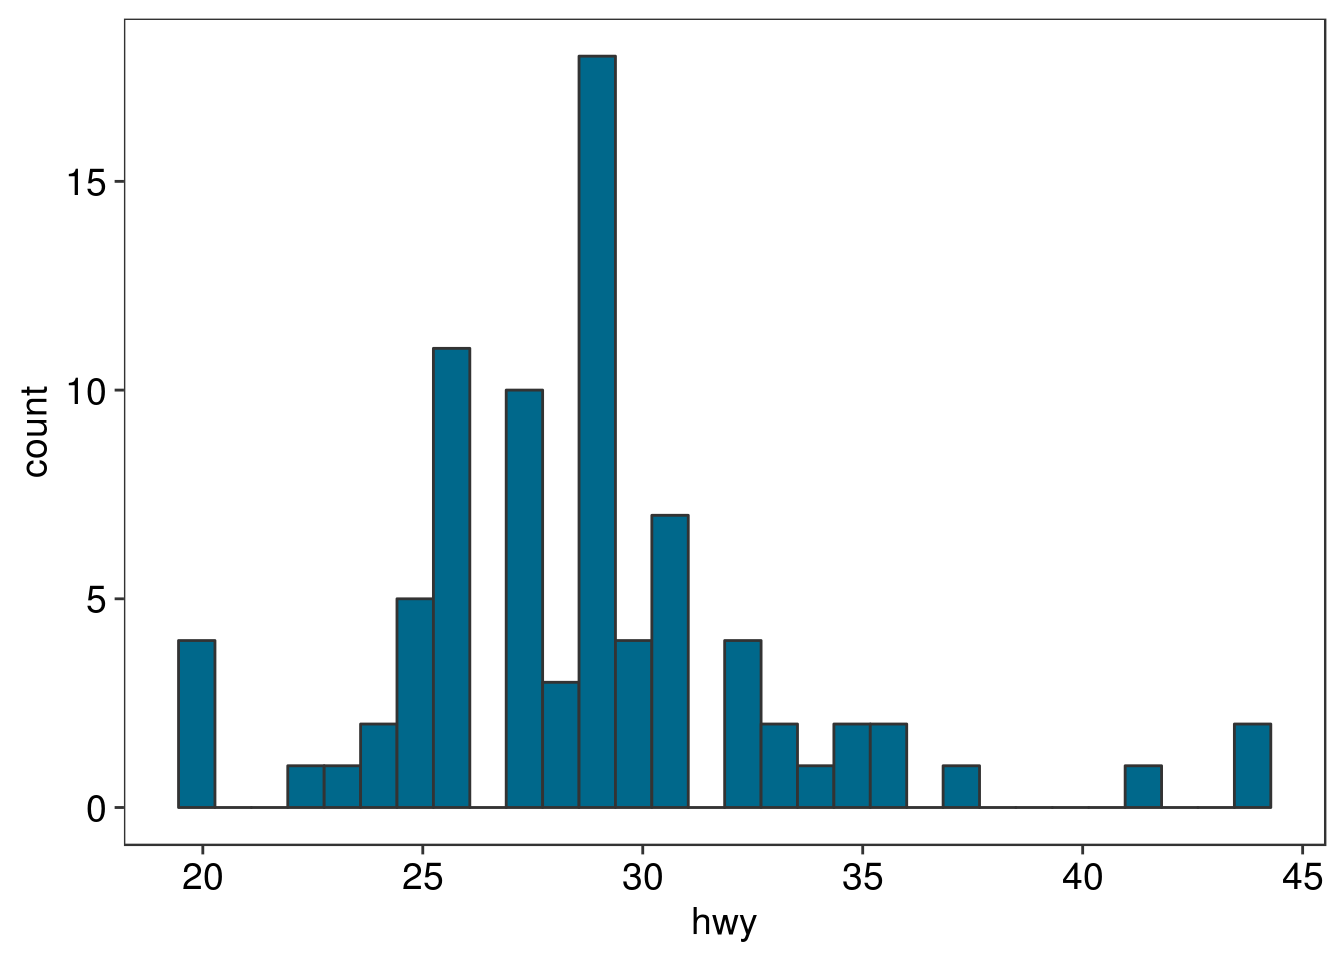
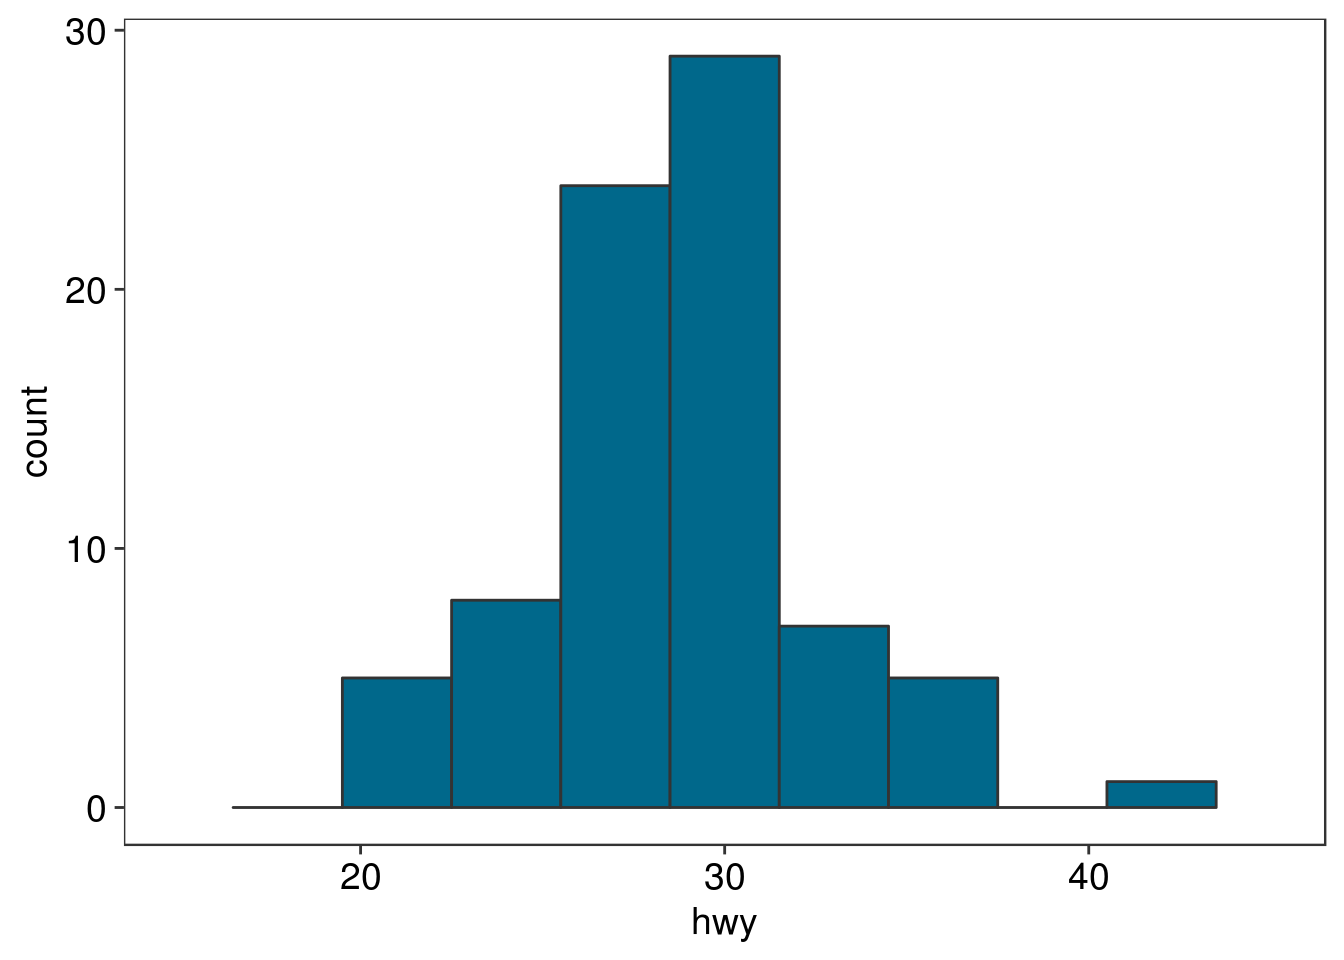
more additions to inference blog

diff --git a/content/post/statistical-inference-using-R.html b/content/post/statistical-inference-using-R.html
@@ -14,15 +14,22 @@ output:
 <div id="TOC">
 <ul>
 <li><a href="#everything-varies">Everything Varies</a></li>
-<li><a href="#mean---one-measure-of-centeral-tendency">Mean - One Measure of Centeral Tendency</a></li>
+<li><a href="#mean---one-measure-of-central-tendency">Mean - One Measure of Central Tendency</a></li>
+<li><a href="#sample-vs-population">Sample vs Population</a></li>
+<li><a href="#estimating-a-population-parameter-from-a-sample-quantity">Estimating a Population Parameter from a Sample Quantity</a></li>
+<li><a href="#variance---a-measure-of-spread">Variance - A Measure of Spread</a></li>
+<li><a href="#what-is-the-variance-in-estimate-of-mean">What is the Variance in Estimate of Mean</a></li>
+<li><a href="#central-limit-theorem">Central Limit Theorem</a></li>
+<li><a href="#key-facts-about-normal-distribution">Key Facts about Normal Distribution</a></li>
+<li><a href="#confidence-intervals-for-the-estimate-of-mean">Confidence Intervals for the Estimate of Mean</a></li>
 </ul>
 </div>
 
-<p>Imagine you were in the market for a new car. You care about running cost of the car and thus one of the buying criteria you have in mind is better fuel economy. One of your friends suggests to buy a 4-cylinder car instead of 6or 8 cylinders since larger engine size ususally translates to worse fuel economy. You are a data scientist so you just don’t take his word but want to look at some concrete data before you narrow down your search to 4-cylinder vehicles. You find this <code>mpg</code> dataset in one of the R packages, <code>ggplot2</code> and start to look at it to answer your question:</p>
+<p>Imagine you were in the market for a new car. You care about running cost of the car and thus one of the buying criteria you have in mind is better fuel economy. One of your friend suggests to buy a 4-cylinder car instead of 6 or 8 cylinders since larger engine size ususally translates to worse fuel economy. You are a data scientist so you just don’t take his word but want to look at some concrete data before you narrow down your search to 4-cylinder vehicles. You find this <code>mpg</code> dataset in one of the R packages, <code>ggplot2</code> and start to look at it to answer your question:</p>
 <blockquote>
 <p>Do 4-cylinder cars have better fuel economy than 6-cylinder cars?</p>
 </blockquote>
-<p>This is a kind of question that statistical inference will help us answer. In this post, we will learn the fundamental concepts related to inference. As usual, we will keep the focus tight on the minimum set of tools needed to start applying the concepts to data at hand. We will add more tools as we start to play with different types of data.</p>
+<p>This is a type of question that statistical inference will help us answer. In this post, we will learn the fundamental concepts related to inference. As usual, we will keep the focus tight on the minimum set of tools needed to start applying the concepts to data at hand. We will add more tools as we start to play with different types of data.</p>
 <div id="everything-varies" class="section level3">
 <h3>Everything Varies</h3>
 <p>Variation is inherent to all phenomenon and processes. Otherwise our job is done. Our objective is to understand the variation in data so we can make an informed decision. So we want to ‘quantify’ the variation in our data. Just looking at the raw data is not going to cut it. Let’s try:</p>
@@ -63,28 +70,104 @@ hwy_4
 #&gt;  9    25
 #&gt; 10    26
 #&gt; # ... with 69 more rows</code></pre>
-<p>It is not a bad idea to look at the raw data but it is difficult to conclude anything. It appears that 4-cylinder vehicles have slightly better fuel economy but there is some overlap too. Moreover, our brain will start to complain if we stare at 70 data points for each set for too long. Sometimes we have to work with many more observations. One tool to ease out that pain is plots. Let’s look at the histogram of each set:</p>
+<p>It is not a bad idea to look at the raw data but it is difficult to conclude anything. Surprisingly, the fuel economy numbers are rounded to 2 significant figures (and thus of type <em>integer</em>). Generally, mpg numbers are provided with 3 decimal places. It appears that 4-cylinder vehicles have slightly better fuel economy but there is some overlap too. Moreover, our brain will start to complain if we stare at 80 data points for each set for too long. And sometimes we may have to work with many more observations. One tool to ease out that pain is plots. Let’s look at the histogram of each set:</p>
 <pre class="r white"><code>library(themeSimple)
 ggplot(hwy_4, aes(hwy)) +
-    histogram() +
+    histogram(binwidth = 3) + 
+    xlim(15, 45) +
     theme_simple()</code></pre>
 <p><img src="/post/statistical-inference-using-R_files/figure-html/unnamed-chunk-2-1.png" width="672" style="display: block; margin: auto;" /></p>
-<pre class="r white"><code>ggplot(hwy_6, aes(hwy)) +
-    histogram() +
+<pre class="r white"><code>
+ggplot(hwy_6, aes(hwy)) +
+    histogram(binwidth = 3) +
+    xlim(15, 45) +
     theme_simple()</code></pre>
-<p><img src="/post/statistical-inference-using-R_files/figure-html/unnamed-chunk-2-2.png" width="672" style="display: block; margin: auto;" /></p>
+<p><img src="/post/statistical-inference-using-R_files/figure-html/unnamed-chunk-2-2.png" width="672" style="display: block; margin: auto;" /> I kept the x-axis scale same in both plots so we can compare the two easily. It is apparent that the mean of 4-cylinder vehicles is centered aroung 30 mpg (miles per gallon) while it is around 25 mpg for 6-cylinder vehicles. So should you conclude that 4-cylinder cars are better? Well, let’s wait until we get some quantifiable differences.</p>
 </div>
-<div id="mean---one-measure-of-centeral-tendency" class="section level3">
-<h3>Mean - One Measure of Centeral Tendency</h3>
-<p>A better approach is to look at the mean:</p>
+<div id="mean---one-measure-of-central-tendency" class="section level3">
+<h3>Mean - One Measure of Central Tendency</h3>
+<p>To quantify the difference, one measure we can consider is <em>mean</em>, which is a measure of central tendency of the data:</p>
 <pre class="r white"><code>mpg %&gt;% 
-    group_by(cyl) %&gt;% 
+    group_by(cyl) %&gt;%
+    filter(cyl == 4 | cyl == 6) %&gt;%
     summarize(mean_hwy = mean(hwy))
-#&gt; # A tibble: 4 x 2
+#&gt; # A tibble: 2 x 2
 #&gt;     cyl mean_hwy
 #&gt;   &lt;int&gt;    &lt;dbl&gt;
 #&gt; 1     4     28.8
-#&gt; 2     5     28.8
-#&gt; 3     6     22.8
-#&gt; 4     8     17.6</code></pre>
+#&gt; 2     6     22.8</code></pre>
+<p>So the mean fuel economy of 4-cylinder cars is greater than 6-cylinder cars by 6 mpg! That’s quite a bit. And now we have quantified the difference. Can we conclude now that 4-cylinder cars are better than 6-cylinders? Well not so fast!</p>
+</div>
+<div id="sample-vs-population" class="section level3">
+<h3>Sample vs Population</h3>
+<p>One thing is clear that your friend is not going to pick up one of the cars used to generate this data. For one, the latest model (2008) in the data set is 10 years old. The data we have with us is called <em>sample</em> and the mean we have calculated is called <em>sample mean</em>. This sample comes from <em>population</em> that in this case consists of all the 4 and 6 cylinder cars manufactured in US from year 1999 to 2008. What we really want to know is <em>population mean</em>. But there is no way to exactly know the population mean (unless you are ready to measure mpg for all the cars, which is a costly proposition!). The only option we have is to <em>estimate</em> population mean from sample mean.</p>
+</div>
+<div id="estimating-a-population-parameter-from-a-sample-quantity" class="section level3">
+<h3>Estimating a Population Parameter from a Sample Quantity</h3>
+<p><strong>How do we estimate population mean from sample mean?</strong></p>
+<p>The answer is quite simple here.</p>
+<blockquote>
+<p>Sample mean is an <em>unbiased estimator</em> of population mean.</p>
+</blockquote>
+<p>Sample mean is an <em>unbiased</em> estimator of population mean so we don’t have to worry too much about the estimate here. What we need to answer is <em>how confident</em> are we in our estimate? It is likely that if we collect another sample, the mean of that sample is not going to be exactly same as the first. This is because since the individual observations are <em>random numbers</em>, anything that we calculate from those will also be a random number. To understand the variability in mean, we need to know a bit about <em>variance</em>.</p>
+</div>
+<div id="variance---a-measure-of-spread" class="section level3">
+<h3>Variance - A Measure of Spread</h3>
+<p>While mean gives you central tendency of a population, <em>variance</em> represents the spread or distribution of observations around the mean. We typically think of variance in terms of <em>standard deviation</em> which is just the square root of variance. This is because the units of standard deviation matches with the data we are analyzing. So in short, a data with standard deviation of 5 will be more spread out compared to a data with standard deviation of 1. Let’s look at the histogram of these two sets:</p>
+<pre class="r white"><code>low_var &lt;- rnorm(1000)
+high_var &lt;- rnorm(1000, mean = 0, sd = 5)
+data &lt;- tibble(id = rep(c(&quot;low&quot;, &quot;high&quot;), each = 1000), 
+               obs = c(low_var, high_var))
+ggplot(data, aes(x = obs)) +
+    histogram(data = filter(data, id == &quot;high&quot;), 
+              fill = &#39;darkorange&#39;, 
+              alpha = 0.8) +
+    histogram(data = filter(data, id == &quot;low&quot;), 
+              alpha = 0.8) +
+    theme_simple()</code></pre>
+<p><img src="/post/statistical-inference-using-R_files/figure-html/unnamed-chunk-4-1.png" width="672" style="display: block; margin: auto;" /></p>
+</div>
+<div id="what-is-the-variance-in-estimate-of-mean" class="section level3">
+<h3>What is the Variance in Estimate of Mean</h3>
+<p>Now that we know what variance is, we need to find what is the variance in our estimate of mean. It turns out that the variance in the estimate of mean is simply the variance of the sample divided by the number of observations in the sample. It follows then that the standard deviation of estimate of our mean (also known as the <em>standard error of mean</em>) is the standard deviation of the sample divided by the square root of the number of observations. Thus, as our sample size increases, the standard error of mean decreases increasing our confidence in the estimate of mean.</p>
+<blockquote>
+<p><em>Standard error of mean is equal to standard deviation of the sample divided by the square root of the number of observations</em></p>
+</blockquote>
+<p>Let’s calculate <em>SE of mean</em> of our two samples:</p>
+<pre class="r white"><code>semean_hwy_4 &lt;- signif(sd(pull(hwy_4, hwy)) / sqrt(length(pull(hwy_4, hwy))), 3)
+semean_hwy_4
+#&gt; [1] 0.502</code></pre>
+<pre class="r white"><code>semean_hwy_6 &lt;- signif(sd(pull(hwy_6, hwy)) / sqrt(length(pull(hwy_6, hwy))), 3)
+semean_hwy_6
+#&gt; [1] 0.415</code></pre>
+<p>This is interesting. From a single sample of data, we know the estimate of population mean and the variance in this estimate. Is it possible to know more about what this population of sample means look like. In other words, if I could not take just one sample, but 10, 100 or thousands of samples, calculate mean of each sample and plot a histogram, what would the distribution of those means look like? The answer is the mighty <em>Central Limit Theorem</em>.</p>
+</div>
+<div id="central-limit-theorem" class="section level3">
+<h3>Central Limit Theorem</h3>
+<p>Central Limit Theorem (CLT) says that regrdless of what the distribution of individual observations of a certain population looks like, the distribution of sample means gets closer and closer to <em>normal distribution</em> as the number of observations increase.</p>
+<blockquote>
+<p><em>Distribution of averages of a random variable samples gets closer and closer to normal distribution as the sample size increases.</em></p>
+</blockquote>
+</div>
+<div id="key-facts-about-normal-distribution" class="section level3">
+<h3>Key Facts about Normal Distribution</h3>
+<p>Now that we know that the distribution of averages follows normal distribution, it will help to know a little bit about this normal distribution. Normal distribution has a <em>bell shape</em> and is also referred to as <em>Gaussian Distribution</em>. Due to the bell shape, more observations are concentrated at the center (mean) and the density decreases as we move away from the center in either direction.</p>
+<ul>
+<li>A normal distrubution with a mean of 0 and standard deviation of 1 is known as <em>standard normal distribution</em>.</li>
+<li>68%, 95% and 99% of the normal density lies within approximately 1, 2 and 3 standard deviations from the mean.</li>
+<li>-1.96, -1.645, 1.645, 1.96 are the 2.5th, 5th, 95th and 97.5th percentiles of the standard normal distribution.</li>
+</ul>
+<p>These facts allow us to build confidence intervals for any estimate that follows a normal distribution.</p>
+</div>
+<div id="confidence-intervals-for-the-estimate-of-mean" class="section level3">
+<h3>Confidence Intervals for the Estimate of Mean</h3>
+<p>Now we have the knowledge to create confidence intervals for our estimate of mean. For example, since the mean follow normal distribution (per CLT), 95% of the means will lie within <em>+/- 2 x SE</em>:</p>
+<pre class="r white"><code>CI_4 &lt;- mean(pull(hwy_4)) + c(-2, 2) * semean_hwy_4
+signif(CI_4, 3)
+#&gt; [1] 27.8 29.8</code></pre>
+<pre class="r white"><code>CI_6 &lt;- mean(pull(hwy_6)) + c(-2, 2) * semean_hwy_6
+signif(CI_6, 3)
+#&gt; [1] 22.0 23.7</code></pre>
+<p><strong>What does these confidence intervals mean?</strong></p>
+<p>One interpretation of confidence interval is that there is 95% chance that the population mean will lie within 27.8 and 29.8 mpg for 4-cylinder cars. In other words, these confidence intervals mean that if we take 100 4-cylinder samples, 95 of those means will contain the population mean.</p>
 </div>
